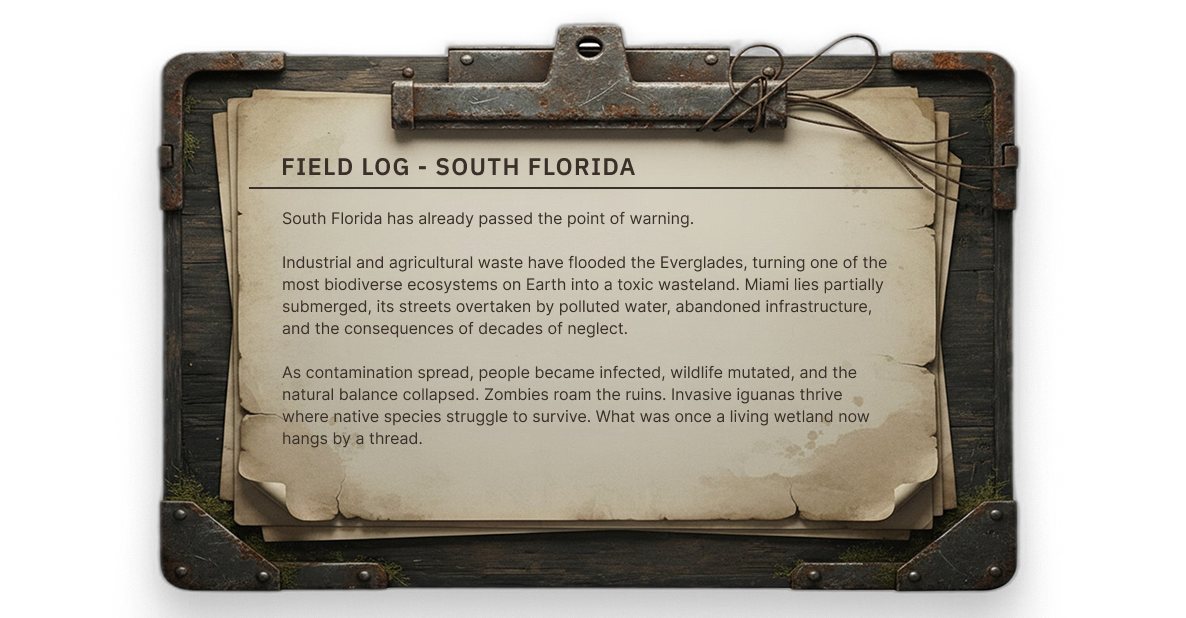
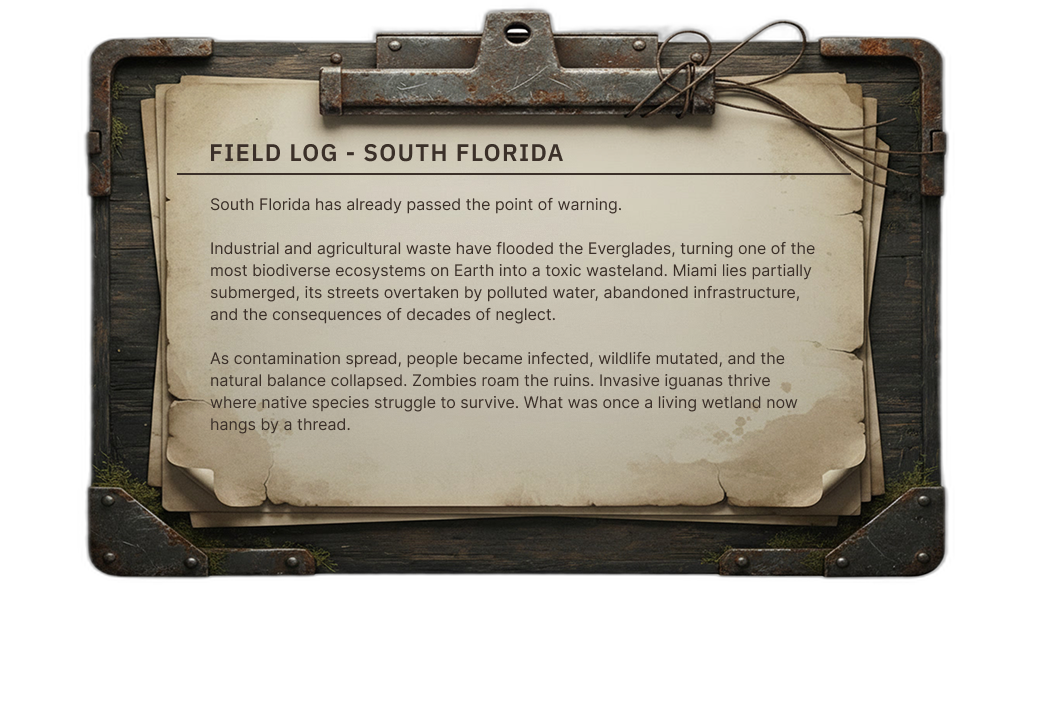
Changes

diff --git a/src/components/MissionSection.tsx b/src/components/MissionSection.tsx
@@ -1,7 +1,7 @@
 import hazardIcon from "@/assets/hazard-icon.png";
 import gunIcon from "@/assets/gun-icon.png";
 import plantIcon from "@/assets/plant-icon.png";
-
+import missionBg from "@/assets/mission-bg.png";
 const MissionSection = () => {
   const missions = [
     {
@@ -35,8 +35,15 @@ const MissionSection = () => {
 
   return (
     <section id="mission" className="relative py-24 px-4">
+      {/* Background */}
+      <img
+        src={missionBg}
+        alt=""
+        className="absolute inset-0 w-full h-full object-cover pointer-events-none"
+        style={{ maxWidth: '1440px', left: '50%', transform: 'translateX(-50%)' }}
+      />
       {/* Section Header */}
-      <div className="text-center mb-16">
+      <div className="relative z-10 text-center mb-16">
         <div className="flex items-center justify-center gap-4 mb-4">
           <div className="h-px w-16 bg-swamp-cream/40" />
           <span className="font-display text-sm tracking-[0.3em] text-swamp-cream/90 drop-shadow-[0_2px_4px_rgba(0,0,0,0.8)]">
@@ -50,7 +57,7 @@ const MissionSection = () => {
       </div>
 
       {/* Mission Cards */}
-      <div className="max-w-6xl mx-auto grid grid-cols-1 md:grid-cols-3 gap-6">
+      <div className="relative z-10 max-w-6xl mx-auto grid grid-cols-1 md:grid-cols-3 gap-6">
         {missions.map((mission, index) => (
           <div key={index} className={`${mission.colorClass} group`}>
             {/* Icon */}

diff --git a/src/components/WorldSection.tsx b/src/components/WorldSection.tsx
@@ -73,7 +73,7 @@ const WorldSection = () => {
           <img
             src={fieldLog}
             alt="Field Log - South Florida"
-            className="max-w-2xl w-full"
+            className="max-w-4xl w-full"
           />
         </div>
       </div>
